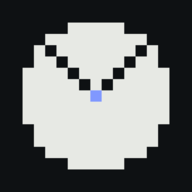
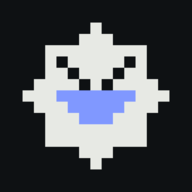
refactor(brand): add 8-ray sun and deep sea basin

Changed region(s): [[0.0938, 0.0938, 0.9062, 0.9062], [0.2812, 0.4688, 0.7188, 0.6562]]

diff --git a/src/pages/Brand.tsx b/src/pages/Brand.tsx
@@ -158,19 +158,19 @@ const NAME: { part: Part; key: string; word: string; body: string }[] = [
     part: "sun",
     key: "A",
     word: "Aditya",
-    body: "Sanskrit for the sun. It is the first name and the largest shape, so the whole mark is a disc.",
+    body: "Sanskrit for the sun. It is the first name and the largest shape, a radiant solar disc with eight Surya rays radiating across cardinal and diagonal axes.",
   },
   {
     part: "v",
     key: "V",
     word: "Vahlevy",
-    body: "Cut out of the sun, not drawn on top of it. The two arms close on one cell, the way a good analysis narrows a whole scene down to one answer.",
+    body: "Cut out of the sun, not drawn on top of it. The two arms narrow focus down to the water, the way a good analysis narrows a whole scene down to one answer.",
   },
   {
     part: "core",
     key: "N",
     word: "Nugraha",
-    body: "From the Sanskrit anugraha, a gift or grace, anugerah in Indonesian. It is the one cell that is not sun: sea, at the centre, where the V lands.",
+    body: "From the Sanskrit anugraha, a gift or grace, anugerah in Indonesian. It is the deep ocean basin at the centre where the V converges.",
   },
   {
     part: "pixel",
@@ -205,16 +205,25 @@ function NameMark({ part }: { part: Part | null }) {
         className="fill-sea"
         style={{ opacity: part === "v" ? 1 : 0, transition: "opacity 300ms" }}
       />
-      <rect
-        x={MID}
-        y={MID}
-        width={1}
-        height={1}
-        className="fill-sea"
-        style={{ opacity: dim(part === "core" || part === "v"), transition: "opacity 300ms" }}
-      />
+      <g style={{ opacity: dim(part === "core" || part === "v"), transition: "opacity 300ms" }}>
+        {SUN.filter((c) => c.core).map((c) => (
+          <rect
+            key={`${c.x}-${c.y}`}
+            x={c.x}
+            y={c.y}
+            width={1.02}
+            height={1.02}
+            className="fill-sea"
+          />
+        ))}
+      </g>
       {part === "core" && (
-        <rect x={MID - 0.35} y={MID - 0.35} width={1.7} height={1.7} fill="none" className="stroke-sea" strokeWidth={0.08} />
+        <path
+          d={cellsPath(SUN.filter((c) => c.core))}
+          fill="none"
+          className="stroke-sea"
+          strokeWidth={0.08}
+        />
       )}
     </svg>
   );
@@ -274,11 +283,11 @@ type Guide = "grid" | "disc" | "v" | "core" | "space" | "size";
 
 const RULES: { guide: Guide; title: string; body: string }[] = [
   { guide: "grid", title: `${N} × ${N} grid`, body: "An odd count, so one cell sits exactly at the centre." },
-  { guide: "disc", title: "Disc", body: `A cell is sun when its centre lies within ${MID + 0.6} cells of the centre. The extra 0.6 keeps the rim round without stray corner pixels.` },
-  { guide: "v", title: "V", body: "Climbs from the centre at 45°, one cell wide, and stops before the rim, so the outline never breaks." },
-  { guide: "core", title: "Core", body: "The centre cell is sea. It is the only colour in the mark." },
+  { guide: "disc", title: "Solar corona", body: "A solar disc with eight radiating Surya rays across cardinal and diagonal axes, evoking the celestial and geospatial emblem of Nusantara." },
+  { guide: "v", title: "V", body: "Climbs from the centre at 45°, one cell wide, guiding focus down into the core." },
+  { guide: "core", title: "Ocean basin", body: "The centre is sea, forming a three-tier deep ocean basin. It is the only colour in the mark." },
   { guide: "space", title: "Clear space", body: "Two cells on every side. Nothing else enters it, including the wordmark." },
-  { guide: "size", title: "Smallest size", body: "16 px on screen, 8 mm in print. From 32 px up each cell is at least 2 px wide and the V reads cleanly." },
+  { guide: "size", title: "Smallest size", body: "16 px on screen, 8 mm in print. The eight rays and three-tier sea basin stay bold and crisp even at favicon size." },
 ];
 
 function ConstructionSection() {
@@ -306,9 +315,13 @@ function ConstructionSection() {
                 </g>
               ))}
             </g>
-            <rect x={MID} y={MID} width={1} height={1} className="fill-sea" style={{ opacity: show("core") ? 1 : 0.25, ...fade }} />
+            <path
+              d={cellsPath(SUN.filter((c) => c.core))}
+              className="fill-sea"
+              style={{ opacity: show("core") ? 1 : 0.25, ...fade }}
+            />
 
-            <circle cx={N / 2} cy={N / 2} r={MID + 0.6} fill="none" className="stroke-sea" strokeWidth={0.07} strokeDasharray="0.3 0.2" style={{ opacity: g === "disc" ? 1 : 0, ...fade }} />
+            <circle cx={N / 2} cy={N / 2} r={MID * 0.95} fill="none" className="stroke-sea" strokeWidth={0.07} strokeDasharray="0.3 0.2" style={{ opacity: g === "disc" ? 1 : 0, ...fade }} />
             <polyline
               points={`${V_TOP + 0.5},${V_TOP + 0.5} ${N / 2},${N / 2} ${N - V_TOP - 0.5},${V_TOP + 0.5}`}
               fill="none"
@@ -317,7 +330,7 @@ function ConstructionSection() {
               style={{ opacity: g === "v" ? 1 : 0, ...fade }}
             />
             <path d={cellsPath(CUT)} className="fill-sea" style={{ opacity: g === "v" ? 0.35 : 0, ...fade }} />
-            <rect x={MID - 0.3} y={MID - 0.3} width={1.6} height={1.6} fill="none" className="stroke-sea" strokeWidth={0.08} style={{ opacity: g === "core" ? 1 : 0, ...fade }} />
+            <path d={cellsPath(SUN.filter((c) => c.core))} fill="none" className="stroke-sea" strokeWidth={0.08} style={{ opacity: g === "core" ? 1 : 0, ...fade }} />
             <g style={{ opacity: g === "space" ? 1 : 0, ...fade }}>
               <rect x={-2} y={-2} width={N + 4} height={N + 4} fill="none" className="stroke-sea" strokeWidth={0.07} strokeDasharray="0.3 0.2" />
               <rect x={-2} y={MID} width={2} height={1} className="fill-sea" opacity={0.35} />
@@ -328,7 +341,7 @@ function ConstructionSection() {
                 {N} cells
               </text>
               <text x={N / 2 + 0.3} y={N / 2 - MID - 0.5} style={{ opacity: g === "disc" ? 1 : 0, ...fade }}>
-                r = {MID + 0.6}
+                r = {(MID * 0.95).toFixed(1)}
               </text>
               <text x={-2} y={-2.4} style={{ opacity: g === "space" ? 1 : 0, ...fade }}>
                 2 cells

diff --git a/src/lib/sunPixel.ts b/src/lib/sunPixel.ts
@@ -1,34 +1,62 @@
-// Geometry of the mark: the sun (Aditya) as a satellite records it, a disc
-// resolved into square pixels. A V (Vahlevy) is cut out of it and closes on
-// one sea pixel at the centre (Nugraha). Shared by the React components and
-// scripts/build-brand.ts, so every file of the kit draws the same cells.
+// Geometry of the mark: the sun (Aditya) as a satellite records it, a radiant solar
+// disc with 8 Surya rays (cardinal spikes + diagonal flares). A V (Vahlevy) is cut
+// out of it at 45 degrees, guiding focus down into a 3-tier deep ocean basin at the
+// centre (Nugraha). Shared by the React components and scripts/build-brand.ts.
 
 export type Cell = { x: number; y: number; core: boolean };
 
 /**
  * Cells per side for the official mark. Odd, so one pixel sits dead centre.
- * Thirteen is the smallest grid where each arm of the V has four steps and
- * reads as a letter. At nine the arms shrink to two steps and read as a face.
+ * Thirteen is the optimal grid where each arm of the V has three clean steps,
+ * the 8 solar rays radiate with authority, and the sea basin holds true depth.
  */
 export const MARK_N = 13;
 
-/** Every cell inside the disc, with the V cells flagged as cut. */
+/** Every cell inside the disc and 8 solar rays, with the V cells flagged as cut. */
 function layout(n: number) {
   const c = (n - 1) / 2;
-  // Radius reaches 0.6 past the centre of the edge cells, which keeps the
-  // outline round without single stray pixels at the corners.
-  const r2 = (c + 0.6) ** 2;
+  // Core disc radius
+  const r2 = (c * 0.88) ** 2;
   const inDisc = (x: number, y: number) => (x - c) ** 2 + (y - c) ** 2 <= r2;
+
+  // 8 Radiant Solar Rays (Surya):
+  // Cardinal spikes: 2-step extensions to grid edge (North, South, East, West)
+  const isCardinal = (x: number, y: number) =>
+    (x === c && (y === 0 || y === 1 || y === n - 1 || y === n - 2)) ||
+    (y === c && (x === 0 || x === 1 || x === n - 1 || x === n - 2));
+
+  // Diagonal flares:
+  const diagDist = Math.max(1, Math.round(c * 0.67));
+  const isDiag = (x: number, y: number) =>
+    Math.abs(x - c) === diagDist && Math.abs(y - c) === diagDist;
+
+  const isRay = (x: number, y: number) => isCardinal(x, y) || isDiag(x, y);
+
+  // The V climbs from y = c - 1 upward at 45 degrees, one cell wide:
+  const maxRise = Math.max(1, Math.floor(c * 0.55));
+  const isV = (x: number, y: number) => {
+    const rise = c - y;
+    return rise >= 1 && rise <= maxRise && Math.abs(x - c) === rise;
+  };
+
+  // The Sea (Nugraha): 3-tier deep ocean basin (7-5-3 cells at n=13)
+  const seaW0 = Math.max(1, Math.round(c * 0.5));
+  const seaW1 = Math.max(0, seaW0 - 1);
+  const seaW2 = Math.max(0, seaW0 - 2);
+  const isSea = (x: number, y: number) =>
+    (y === c && Math.abs(x - c) <= seaW0) ||
+    (y === c + 1 && Math.abs(x - c) <= seaW1) ||
+    (y === c + 2 && Math.abs(x - c) <= seaW2);
+
   const out: (Cell & { cut: boolean })[] = [];
   for (let y = 0; y < n; y++) {
     for (let x = 0; x < n; x++) {
-      if (!inDisc(x, y)) continue;
-      // The V climbs from the centre at 45 degrees, one cell wide, and stops
-      // before the rim so the outline of the sun is never broken.
-      const rise = c - y;
-      const onRim = !inDisc(x - 1, y) || !inDisc(x + 1, y) || !inDisc(x, y - 1);
-      const cut = rise >= 1 && Math.abs(x - c) === rise && !onRim;
-      out.push({ x, y, core: x === c && y === c, cut });
+      const inMark = inDisc(x, y) || isRay(x, y);
+      if (!inMark) continue;
+
+      const cut = isV(x, y);
+      const core = isSea(x, y);
+      out.push({ x, y, core, cut });
     }
   }
   return out;

diff --git a/src/pages/home/Flagships.tsx b/src/pages/home/Flagships.tsx
@@ -79,7 +79,7 @@ export function Flagships() {
         />
         <Reveal delay={0.2}>
           <p className="prose-body mt-6 text-lg">
-            Fertilizer demand, AI agents, and national logistics. The figures below are the ones the repositories can
+            AI agents orchestration, geospatial fertilizer demand dashboard, and national logistics. The figures below are the ones the repositories can
             back up. Anything not yet measured says so on the case study.
           </p>
         </Reveal>
